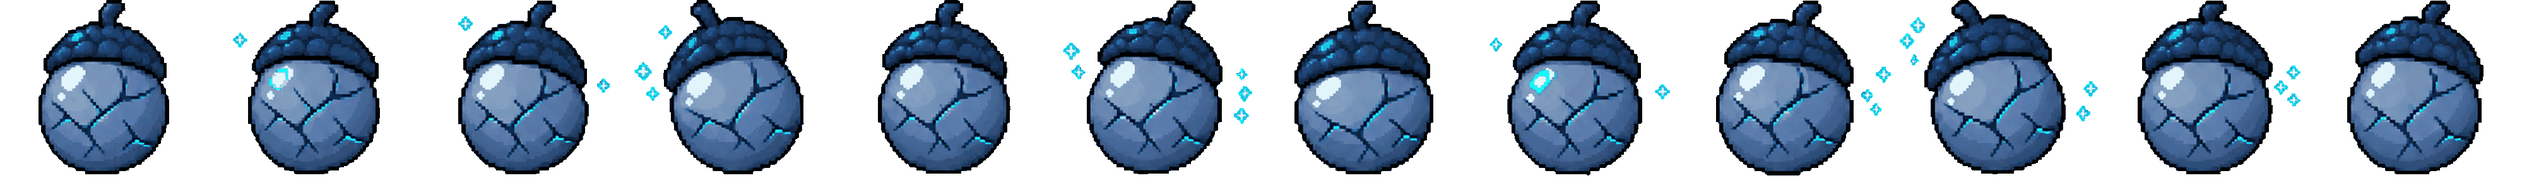
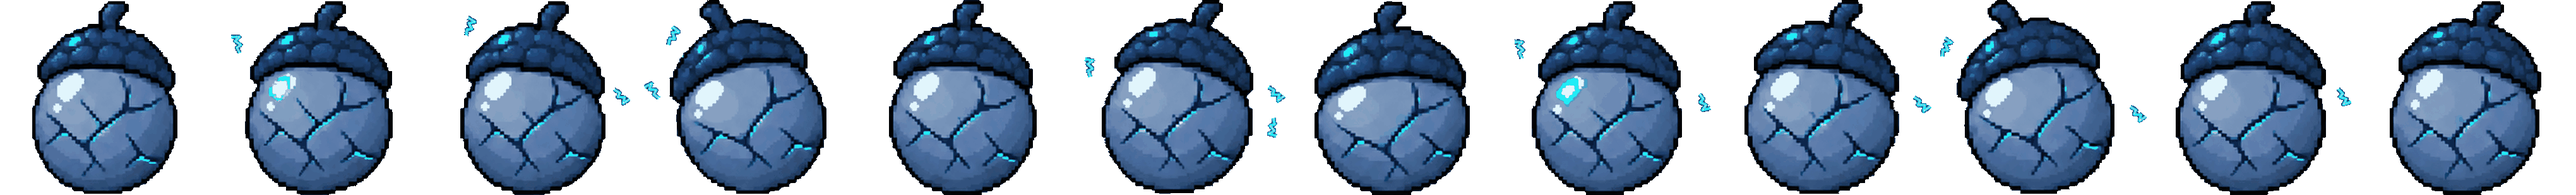
Redraw the Static Egg from the second set of sheets
The five replacements chain exactly where the first set did not: each
transition now ends on the frame its next idle opens with, checked by
comparing first and last frames rather than by crack-pixel counts, which the
shell's shimmer had made noisy.

Their sparkles are smaller, so the packed frame is a different shape - 340px
wide against 333 - and scale and offset were solved against the Cinder Egg
again rather than carried over. Both eggs render to the same silhouette
height and the same baseline, within a device pixel.

Drift before packing was 23px of baseline, 48px of centre and 6% of swell;
after, 2px, 2px and 4px. Burst frames re-measured and unchanged at 7 and 10:
crack-1 snaps open on 7 and eases back, crack-2 does everything on 10.

ART_VERSION bumped because the filenames did not change, so every cache in
the way would otherwise go on serving the old drawings.

Claude-Session: https://claude.ai/code/session_01YRzrKPfiP3SQKKej9Vjk7N

diff --git a/index.html b/index.html
@@ -1536,10 +1536,10 @@ const LEVEL_UP_ART = {
   // frame 7 of 12, the spread on frame 10. Measured off the sheets rather than
   // copied from the Cinder Egg, which cracks on 9 both times.
   "nimbus:0@2": levelUpClip({ src:"art/nimbus-egg-crack-1.png", frames:12,
-    gather:2, burst:7, aspect:1.074, scale:0.909, dx:1.05, dy:4.45,
+    gather:2, burst:7, aspect:1.097, scale:0.832, dx:1.40, dy:-1.49,
     cap:{ top:12, right:45 } }),
   "nimbus:0@3": levelUpClip({ src:"art/nimbus-egg-crack-2.png", frames:12,
-    gather:2, burst:10, aspect:1.074, scale:0.909, dx:1.05, dy:4.45,
+    gather:2, burst:10, aspect:1.097, scale:0.832, dx:1.40, dy:-1.49,
     cap:{ top:12, right:45 } }),
   // this one scowls and shuts its eyes for four frames before any gold shows,
   // so its build is shorter in frames and each of them holds longer. `cap`
@@ -2552,7 +2552,7 @@ const DEFAULT_SPRITES = {
     // and anchored to one point. The body is the largest blob, so the sparkles
     // that come and go cannot drag the anchor with them.
     src:"art/nimbus-egg.png",
-    frames:12, rows:1, fps:2, aspect:1.074, scale:0.909, dx:1.05, dy:4.45
+    frames:12, rows:1, fps:2, aspect:1.097, scale:0.832, dx:1.40, dy:-1.49
   },
   "nimbus:1": {
     src:"art/nimbus-puffling.png",
@@ -2598,7 +2598,7 @@ function spriteConfig(species, stage){
    already has one will happily go on showing the old drawing. Bump this and
    every cache along the way fetches the new file. Only the sheets that ship
    with the app are stamped; a sheet you point at yourself is used verbatim. */
-const ART_VERSION = "11";
+const ART_VERSION = "12";
 function assetURL(src){
   return /^art\//.test(src) ? src + "?v=" + ART_VERSION : src;
 }

diff --git a/README.md b/README.md
@@ -159,12 +159,16 @@ white highlight on the shell goes with it.
 
 The Static Egg — Nimbus's acorn — followed, as five sheets in the same shape.
 Those arrived with real transparency, so no keying was needed, but their grid
-drifted: the egg climbs 22px and slides 45px left from the first frame to the
-last, and the body swells 6% along the way. Every frame of every phase is
-normalised to one body size and anchored to one point, measuring the body as
-the largest connected blob so the sparkles that come and go cannot drag the
-anchor with them. Left alone the acorn would creep across its own loop and jump
-at every handover between phases.
+drifted: across the sixty frames the egg's baseline moves 23px, its centre 48px,
+and the body swells 6%. Every frame of every phase is normalised to one body
+size and anchored to one point, measuring the body as the largest connected blob
+so the sparkles that come and go cannot drag the anchor with them. Left alone
+the acorn would creep across its own loop and jump at every handover between
+phases; after packing the three drifts are 2px, 2px and 4px.
+
+The two transition sheets hold each crack state for two or three frames rather
+than drawing twelve distinct ones — the sparkles change underneath, the shell
+does not. That is why their burst frames fall where they do.
 
 Eggs crack as they level. They are the one form whose art changes inside its
 own stage — intact at level 1, a first split at 2, a full web at 3 — and the
